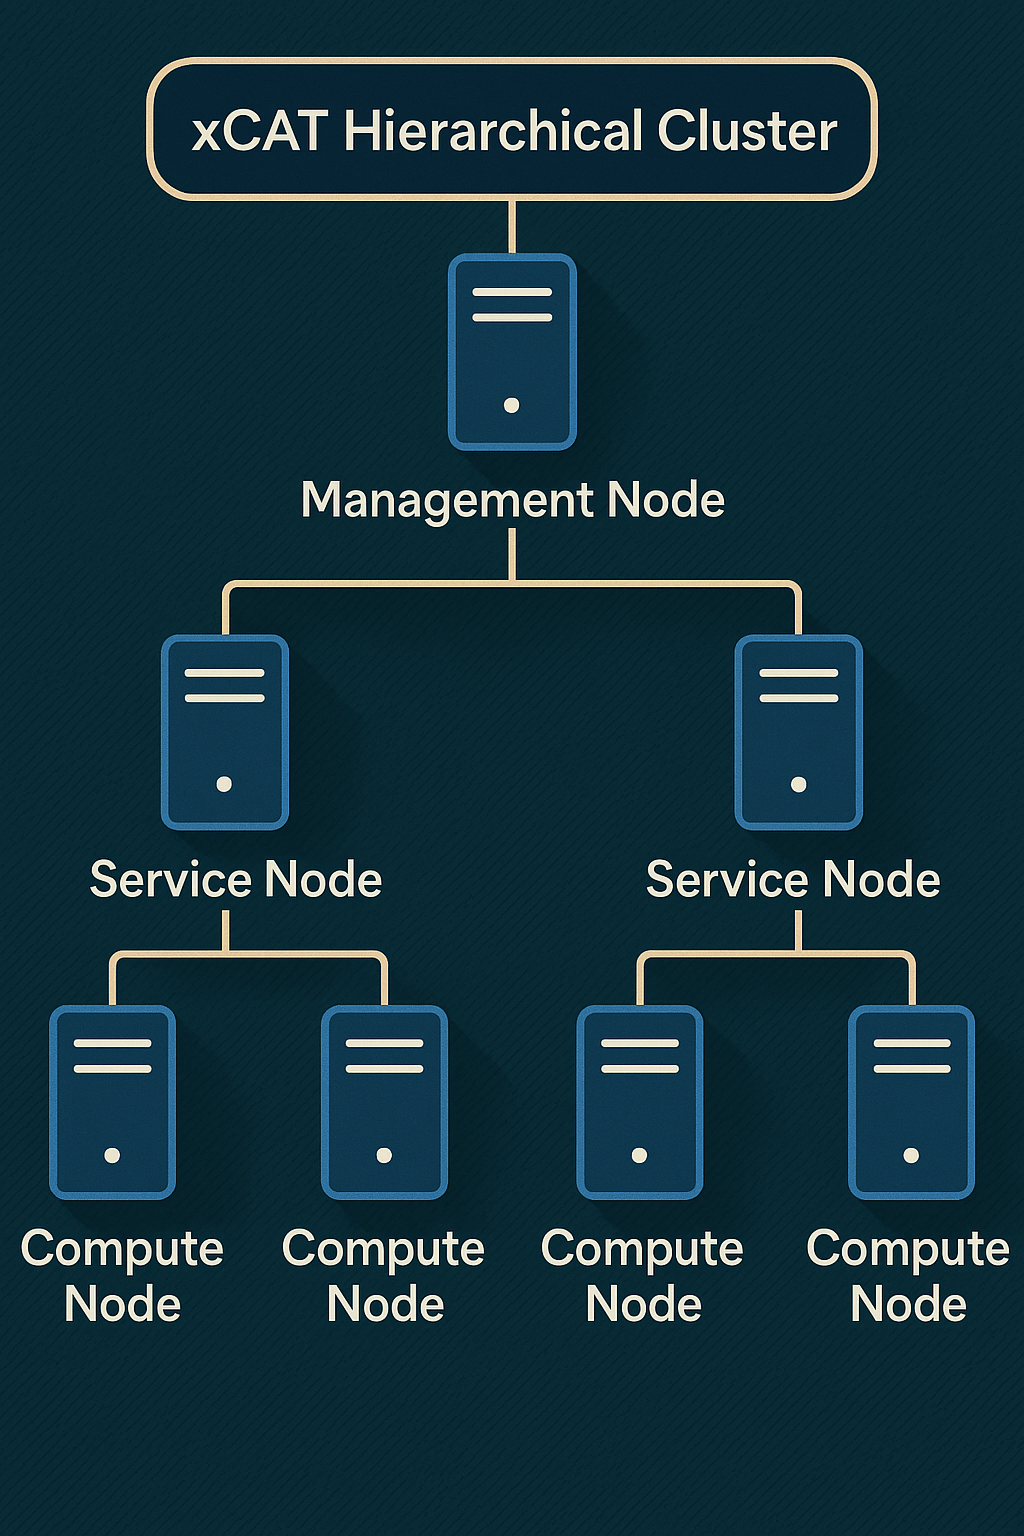
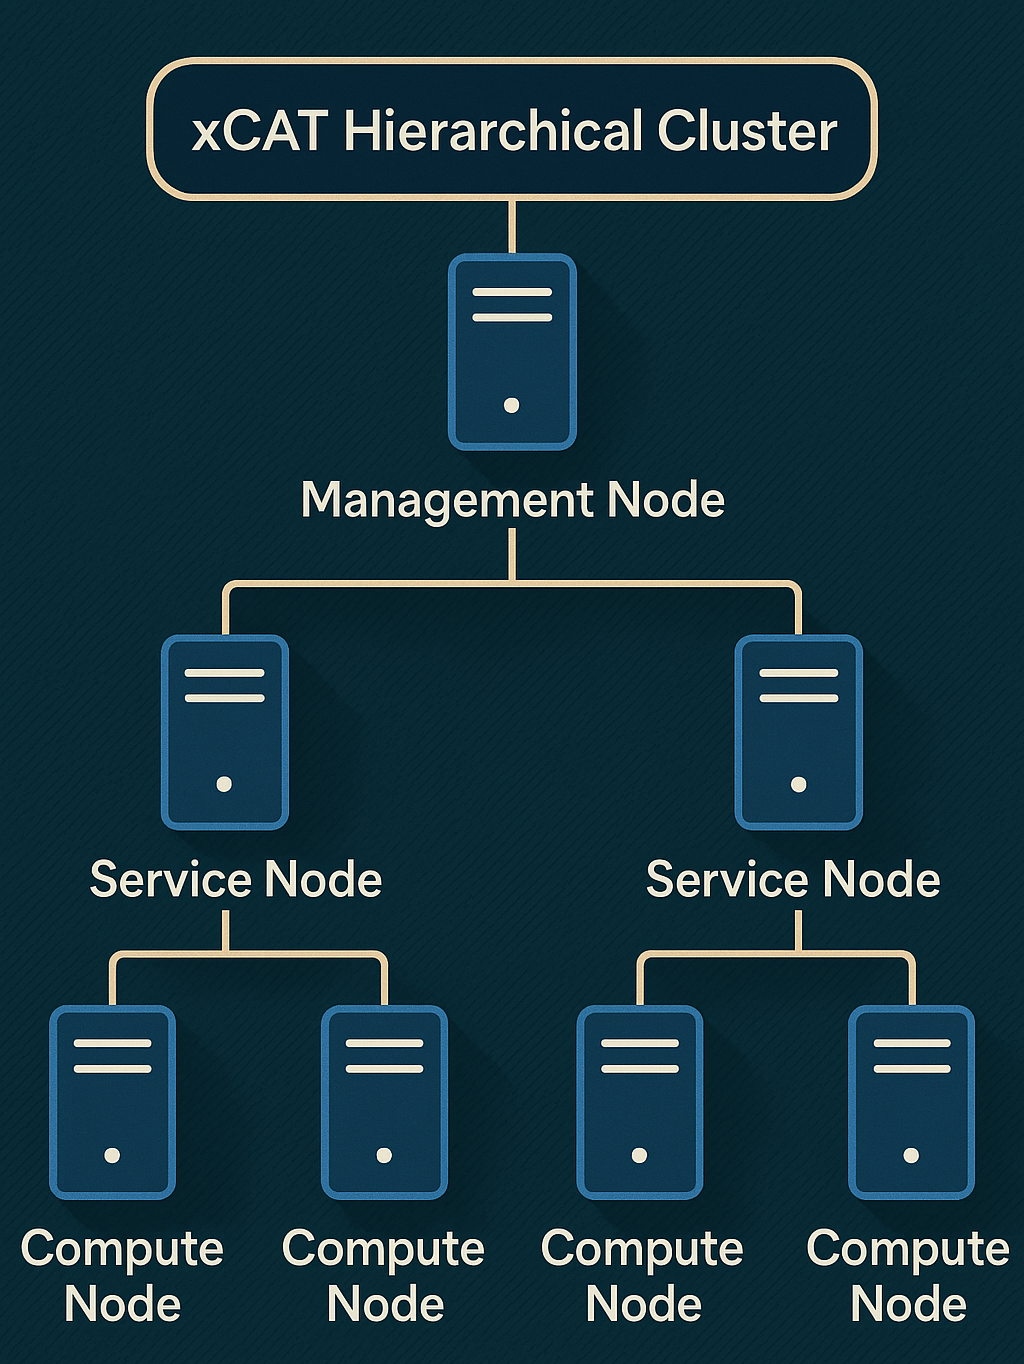
doc updates

Changed region(s): [[0.0, 0.2771, 1.0, 0.9853], [0.125, 0.0308, 0.875, 0.2463]]

diff --git a/docs/source/OmniaInstallGuide/RHEL_new/xcat_hierarchical.rst b/docs/source/OmniaInstallGuide/RHEL_new/xcat_hierarchical.rst
@@ -23,4 +23,4 @@ A hierarchical cluster consists of:
 * **Compute Nodes**: The actual worker nodes of the cluster.
 
 .. image:: ../../images/xcat_hierarchical.png
-    :width: 400px
+    :width: 300px
